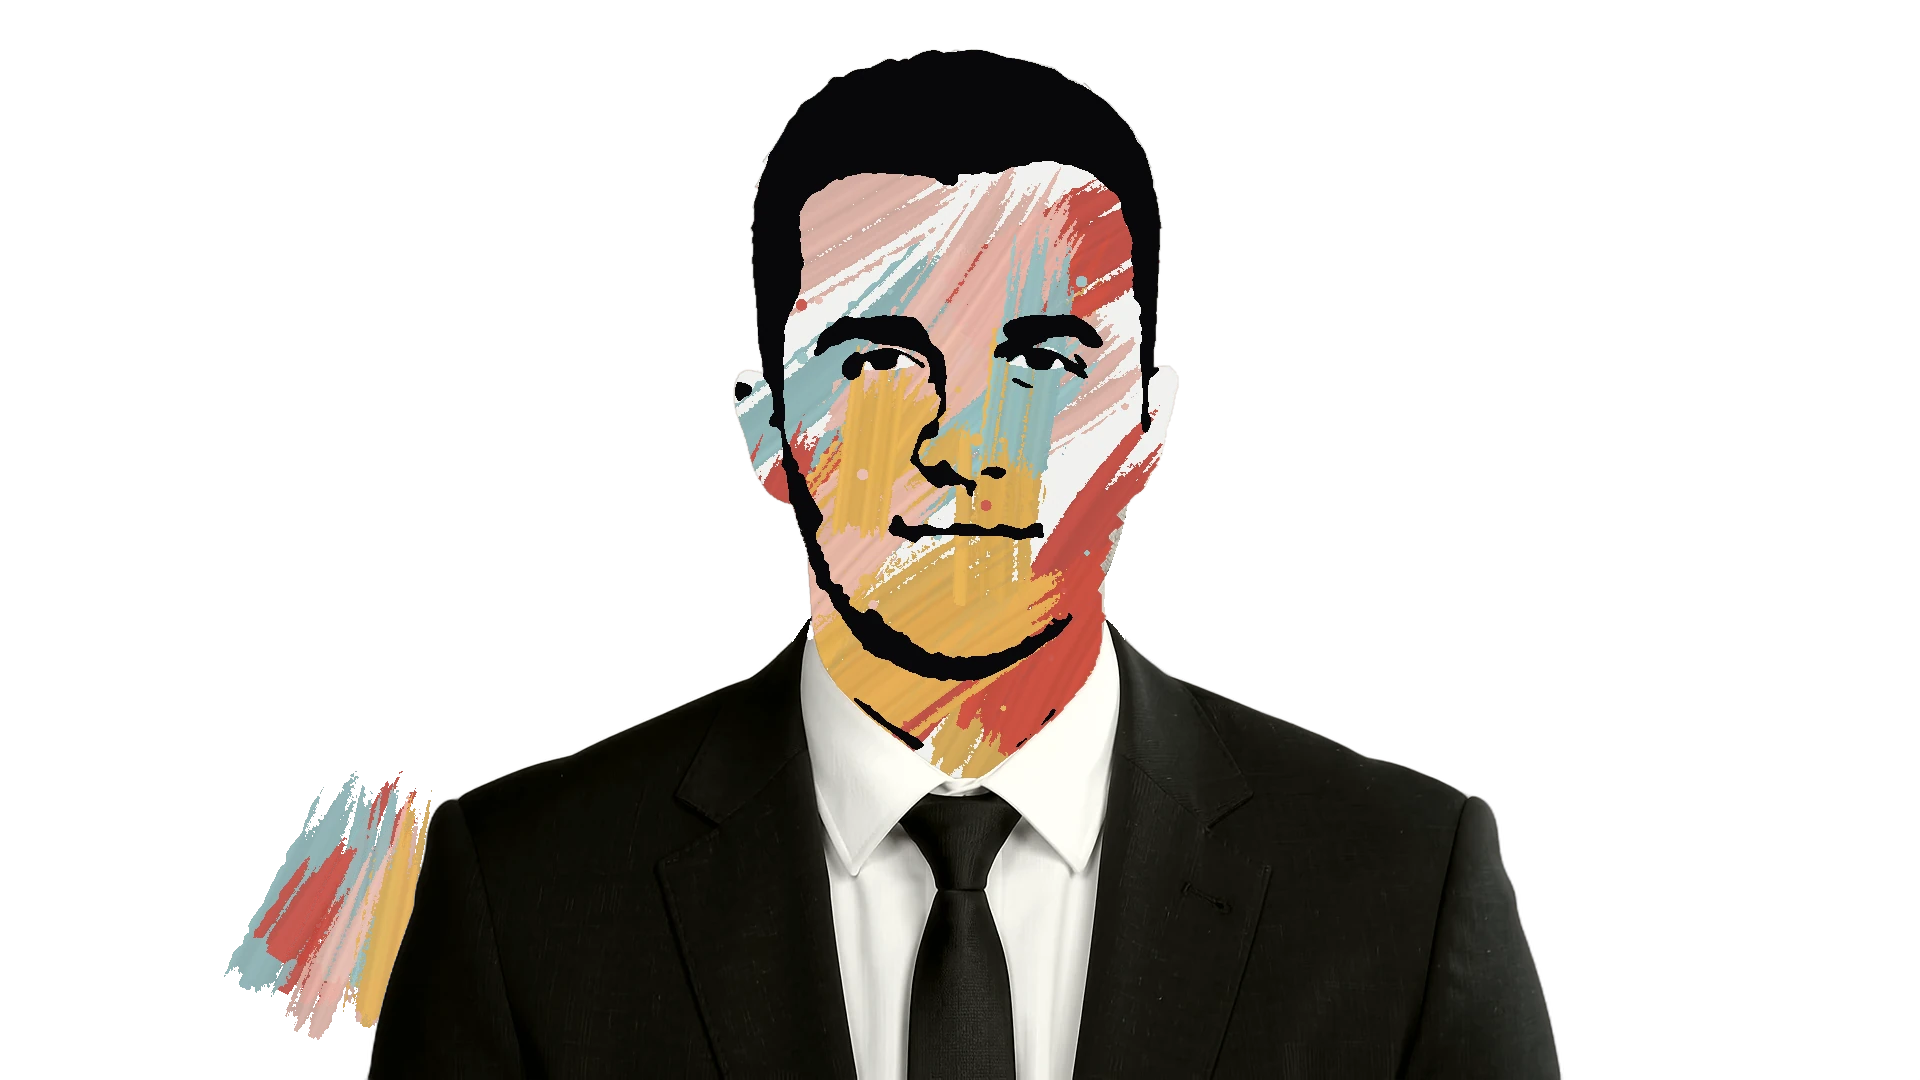
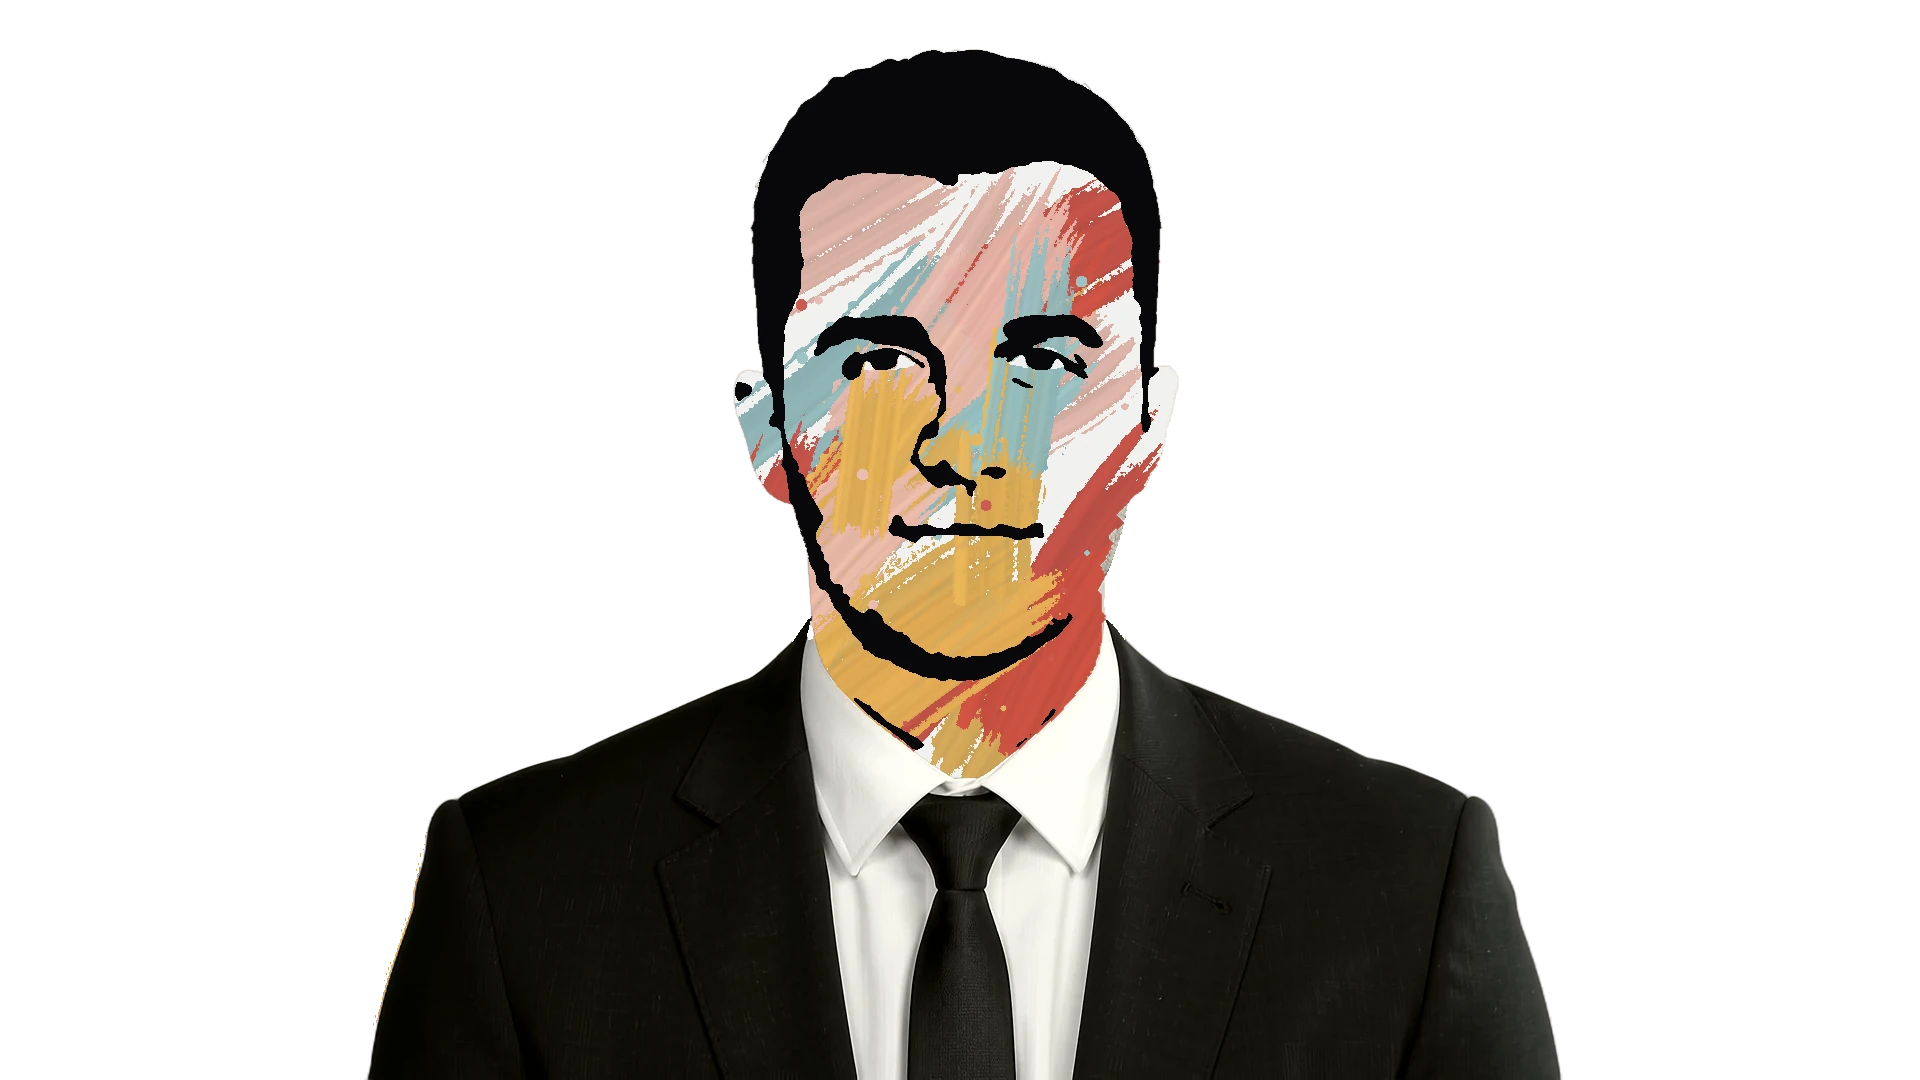
Hero: splash fades with the left label and scenery; live BTC/USD quote replaces EUR/USD

Changed region(s): [[0.125, 0.7333, 0.2188, 0.9778]]

diff --git a/src/hooks/useBtcTicker.ts b/src/hooks/useBtcTicker.ts
@@ -1,0 +1,81 @@
+import { useEffect, useState } from "react";
+
+export type Ticker = { price: number; changePct: number; live: boolean };
+
+/**
+ * Last BTC/USD price and its 24h change, for the hero's trading scenery.
+ *
+ * Read-only public endpoints, no keys, nothing about the visitor is sent:
+ * Binance first (BTCUSDT 24h ticker), Coinbase Exchange stats if Binance is
+ * unreachable from the visitor's region, and a fixed recent value if both
+ * fail - the scenery must never show an empty quote. Refreshed once a minute
+ * while the tab is visible.
+ */
+const FALLBACK: Ticker = { price: 80578.08, changePct: -1.35, live: false };
+const REFRESH_MS = 60_000;
+
+async function withTimeout<T>(p: (signal: AbortSignal) => Promise<T>, ms = 4000): Promise<T> {
+  const ctl = new AbortController();
+  const t = window.setTimeout(() => ctl.abort(), ms);
+  try {
+    return await p(ctl.signal);
+  } finally {
+    window.clearTimeout(t);
+  }
+}
+
+async function fromBinance(): Promise<Ticker> {
+  return withTimeout(async (signal) => {
+    const r = await fetch("https://api.binance.com/api/v3/ticker/24hr?symbol=BTCUSDT", { signal });
+    if (!r.ok) throw new Error(String(r.status));
+    const j = await r.json();
+    const price = Number(j.lastPrice);
+    const changePct = Number(j.priceChangePercent);
+    if (!Number.isFinite(price) || !Number.isFinite(changePct)) throw new Error("bad payload");
+    return { price, changePct, live: true };
+  });
+}
+
+async function fromCoinbase(): Promise<Ticker> {
+  return withTimeout(async (signal) => {
+    const r = await fetch("https://api.exchange.coinbase.com/products/BTC-USD/stats", { signal });
+    if (!r.ok) throw new Error(String(r.status));
+    const j = await r.json();
+    const price = Number(j.last);
+    const open = Number(j.open);
+    if (!Number.isFinite(price) || !Number.isFinite(open) || open <= 0) throw new Error("bad payload");
+    return { price, changePct: ((price - open) / open) * 100, live: true };
+  });
+}
+
+export function useBtcTicker(): Ticker {
+  const [ticker, setTicker] = useState<Ticker>(FALLBACK);
+
+  useEffect(() => {
+    let alive = true;
+    const load = async () => {
+      if (document.visibilityState === "hidden") return;
+      for (const source of [fromBinance, fromCoinbase]) {
+        try {
+          const t = await source();
+          if (alive) setTicker(t);
+          return;
+        } catch {
+          /* try the next source; the fallback stays on screen */
+        }
+      }
+    };
+    load();
+    const id = window.setInterval(load, REFRESH_MS);
+    return () => {
+      alive = false;
+      window.clearInterval(id);
+    };
+  }, []);
+
+  return ticker;
+}
+
+export function formatPrice(n: number) {
+  return n.toLocaleString("en-US", { minimumFractionDigits: 2, maximumFractionDigits: 2 });
+}

diff --git a/src/components/HeroDecor.tsx b/src/components/HeroDecor.tsx
@@ -1,11 +1,12 @@
 import "@fontsource/jetbrains-mono/400.css";
+import { formatPrice, useBtcTicker } from "@/hooks/useBtcTicker";
 
 /**
  * The faint scenery behind each shoulder, in the 1920x1080 coordinates of the
  * hero frame (the SVG's viewBox is that frame, drawn into the same
  * cover-sized box as the portrait).
  *
- *   left   coding + trading - mono code, a pair quote, a small candle chart
+ *   left   coding + trading - mono code, a live BTC/USD quote, a candle chart
  *   right  the hotel        - one line-drawn grand hotel under five stars
  *
  * Placed against the measured shoulder line (source px): left shoulder rises
@@ -211,7 +212,14 @@ function GrandHotel({ x, y }: { x: number; y: number }) {
   );
 }
 
+/** Muted red for a falling quote, matched in weight to the violet accent. */
+const DOWN = "#D98A8A";
+
 export function HeroDecor() {
+  // Live BTC/USD (falls back to a recent fixed quote) - see useBtcTicker.
+  const btc = useBtcTicker();
+  const up = btc.changePct >= 0;
+
   return (
     <svg
       viewBox="0 0 1920 1080"
@@ -234,12 +242,12 @@ export function HeroDecor() {
           {"const edge = winRate * rr - (1 - winRate);"}
         </text>
         <text x={392} y={708} fontSize={40} fill={FAINT} letterSpacing={-1}>
-          EUR/USD
+          BTC/USD
         </text>
         <text x={394} y={736} fontSize={16} fill={SOFT}>
-          1.0842
-          <tspan fill={ACCENT} fillOpacity={0.6} dx={10}>
-            ▲ 0.31%
+          {formatPrice(btc.price)}
+          <tspan fill={up ? ACCENT : DOWN} fillOpacity={0.75} dx={10}>
+            {up ? "▲" : "▼"} {Math.abs(btc.changePct).toFixed(2)}%
           </tspan>
         </text>
         <CandleChart x={588} y={664} w={170} h={86} />

diff --git a/src/components/HeroLayers.tsx b/src/components/HeroLayers.tsx
@@ -27,6 +27,7 @@ import { HeroDecor } from "@/components/HeroDecor";
  */
 const PHOTO_SRC = "/images/hero/photo.webp";
 const FANTASY_SRC = "/images/hero/fantasy.webp";
+const SPLASH_SRC = "/images/hero/fantasy-splash.webp";
 const PHOTO_EYES = "/images/hero/photo-eyes.webp";
 const FANTASY_EYES = "/images/hero/fantasy-eyes.webp";
 
@@ -252,6 +253,24 @@ export function HeroLayers() {
           />
           <EyeStrip src={PHOTO_EYES} stepRef={photoEyesRef} />
         </div>
+
+        {/* The illustration's paint splash on the wall, as its own layer so it
+            fades with the left label and scenery (same --op-left and the same
+            transition), all at once. Baked into the illustration it could only
+            go when the seam swept over it, a beat after everything else. */}
+        <img
+          src={SPLASH_SRC}
+          alt=""
+          aria-hidden
+          width={SRC_W}
+          height={SRC_H}
+          draggable={false}
+          className={fill}
+          style={{
+            opacity: "var(--op-left, 1)",
+            transition: "opacity var(--dur-left, 160ms) linear",
+          }}
+        />
 
         {/* Illustration: on top, cut at the seam. The inline clip is the resting
           state (seam on the nose line), so the split holds without any script. */}

diff --git a/tools/hero-cutout.py b/tools/hero-cutout.py
@@ -94,8 +94,12 @@ near_head = gaussian_filter((h > 0.5).astype(float), 10) > 0.01
 fa = np.where(near_head & (alpha < 0.98), np.maximum(h, wa), fa)
 # Wall paint carries its own alpha and pure paint colour (un-premultiplied).
 paint_only = (wa > 0) & (alpha < 0.02) & (h < 0.02)
-rgb = ill.copy()
-rgb[paint_only] = wrgb[paint_only]
-rgba(rgb, fa).save(f"{OUT}/fantasy.webp", "WEBP", quality=90, method=6, exact=True)
-for f in ("photo.webp", "fantasy.webp", "photo-eyes.webp"):
+# The wall splash is its own layer (fantasy-splash.webp): baked into the
+# illustration it could only vanish when the seam swept over it, a beat after
+# the left label had already faded. As a layer it fades with the label.
+fa_person = np.where(paint_only, 0.0, fa)
+rgba(ill, fa_person).save(f"{OUT}/fantasy.webp", "WEBP", quality=90, method=6, exact=True)
+splash_a = np.where(paint_only, wa, 0.0)
+rgba(wrgb, splash_a).save(f"{OUT}/fantasy-splash.webp", "WEBP", quality=90, method=6, exact=True)
+for f in ("photo.webp", "fantasy.webp", "fantasy-splash.webp", "photo-eyes.webp"):
     print(f, os.path.getsize(f"{OUT}/{f}") // 1024, "KB")

diff --git a/HANDOFF.md b/HANDOFF.md
@@ -269,6 +269,13 @@ across the site on 2026-09-02.
   edge differs to 0.81. When the splash moved and the end still said 0.2, two
   strokes stayed on screen at full photo. Re-measure after regenerating
   fantasy.webp.
+- **The wall splash is its own layer** (`fantasy-splash.webp`, written by
+  `hero-cutout.py`), with the same `--op-left` opacity and transition as the
+  left label and scenery, so all three fade together. Baked into the
+  illustration it vanished only when the seam swept over it, a beat late.
+- **Live BTC/USD** in the left scenery (`hooks/useBtcTicker.ts`): Binance 24h
+  ticker, else Coinbase Exchange stats, else a fixed recent quote; refreshed
+  every minute while visible. Falling quotes show in muted red.
 - **Hotel drawing v3**: Art Deco wings + tower on one FLOOR grid (windows
   centred in their bands, floor lines on band boundaries), crown, spire,
   fins, canopy, stars. v2 had floor lines and windows on different grids.
